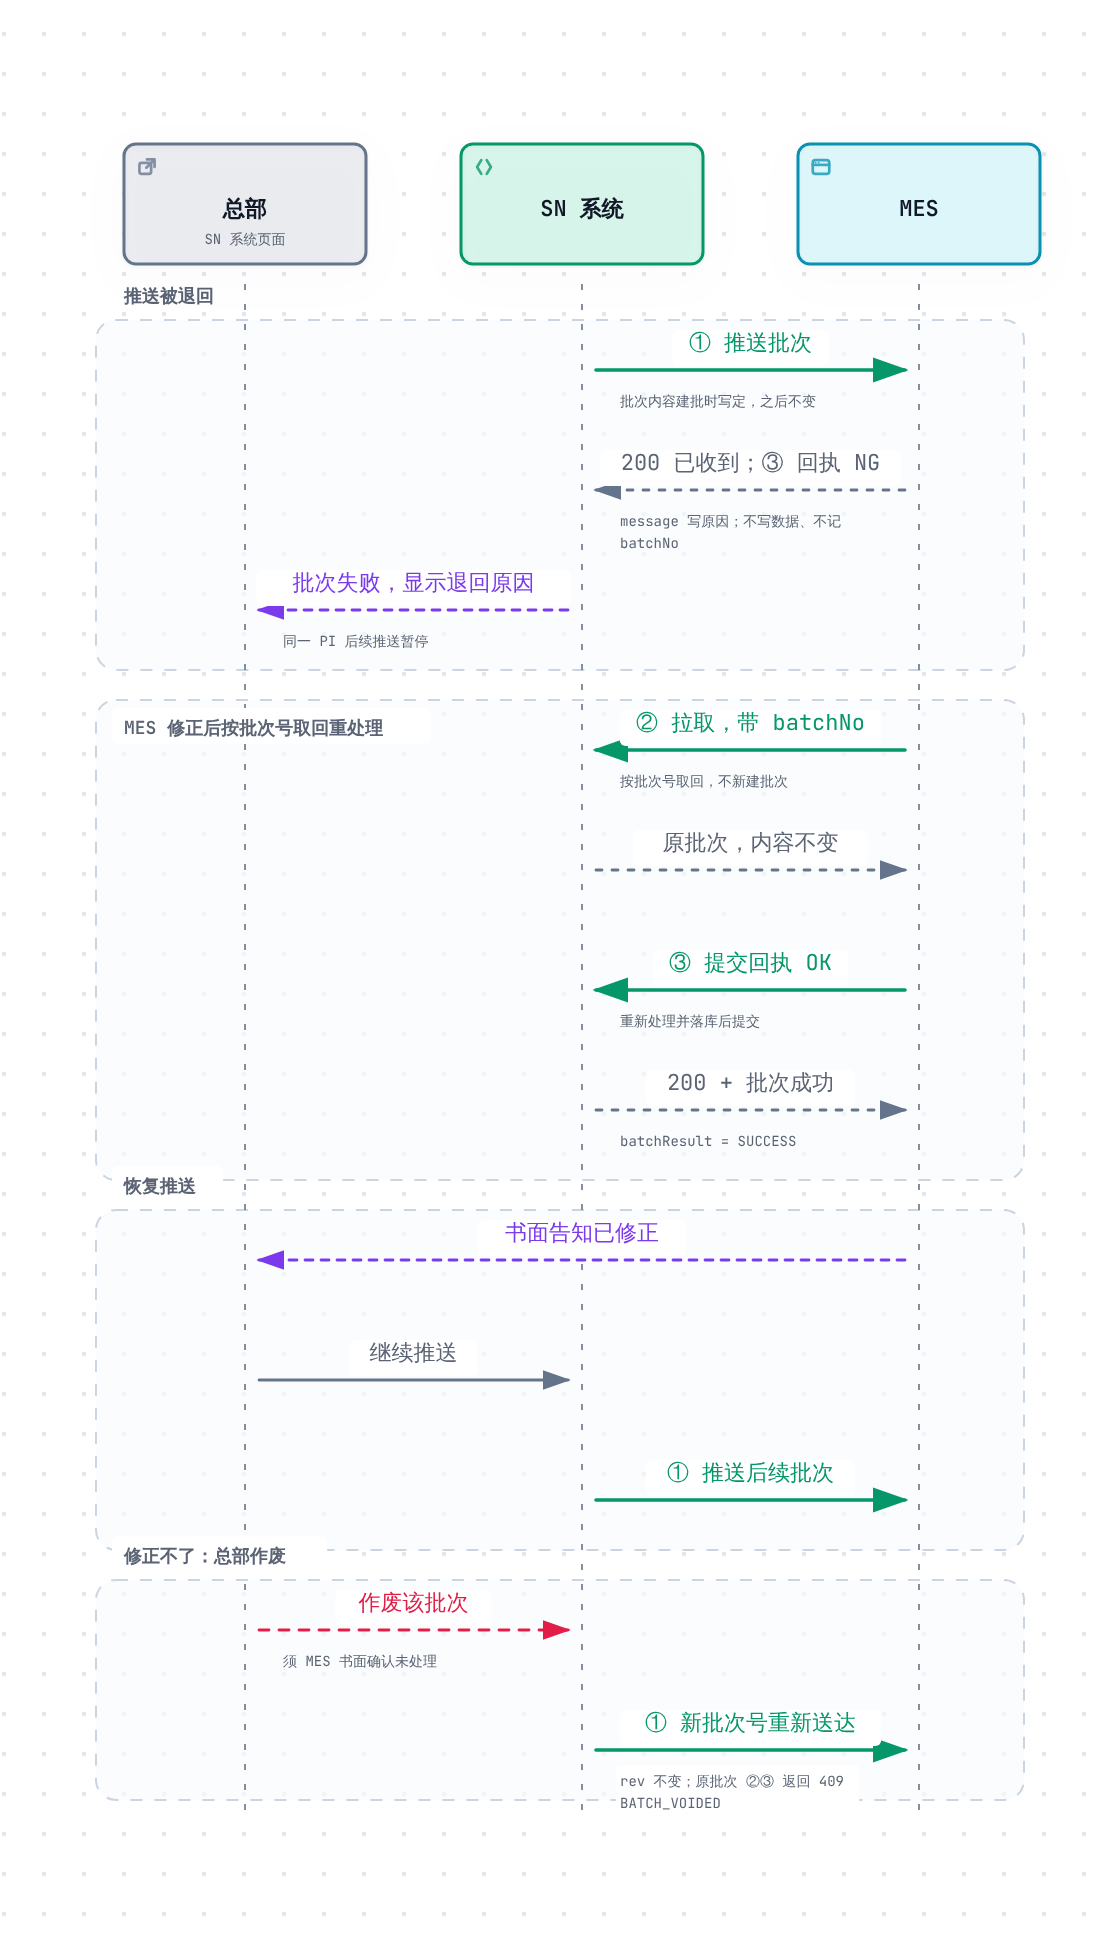
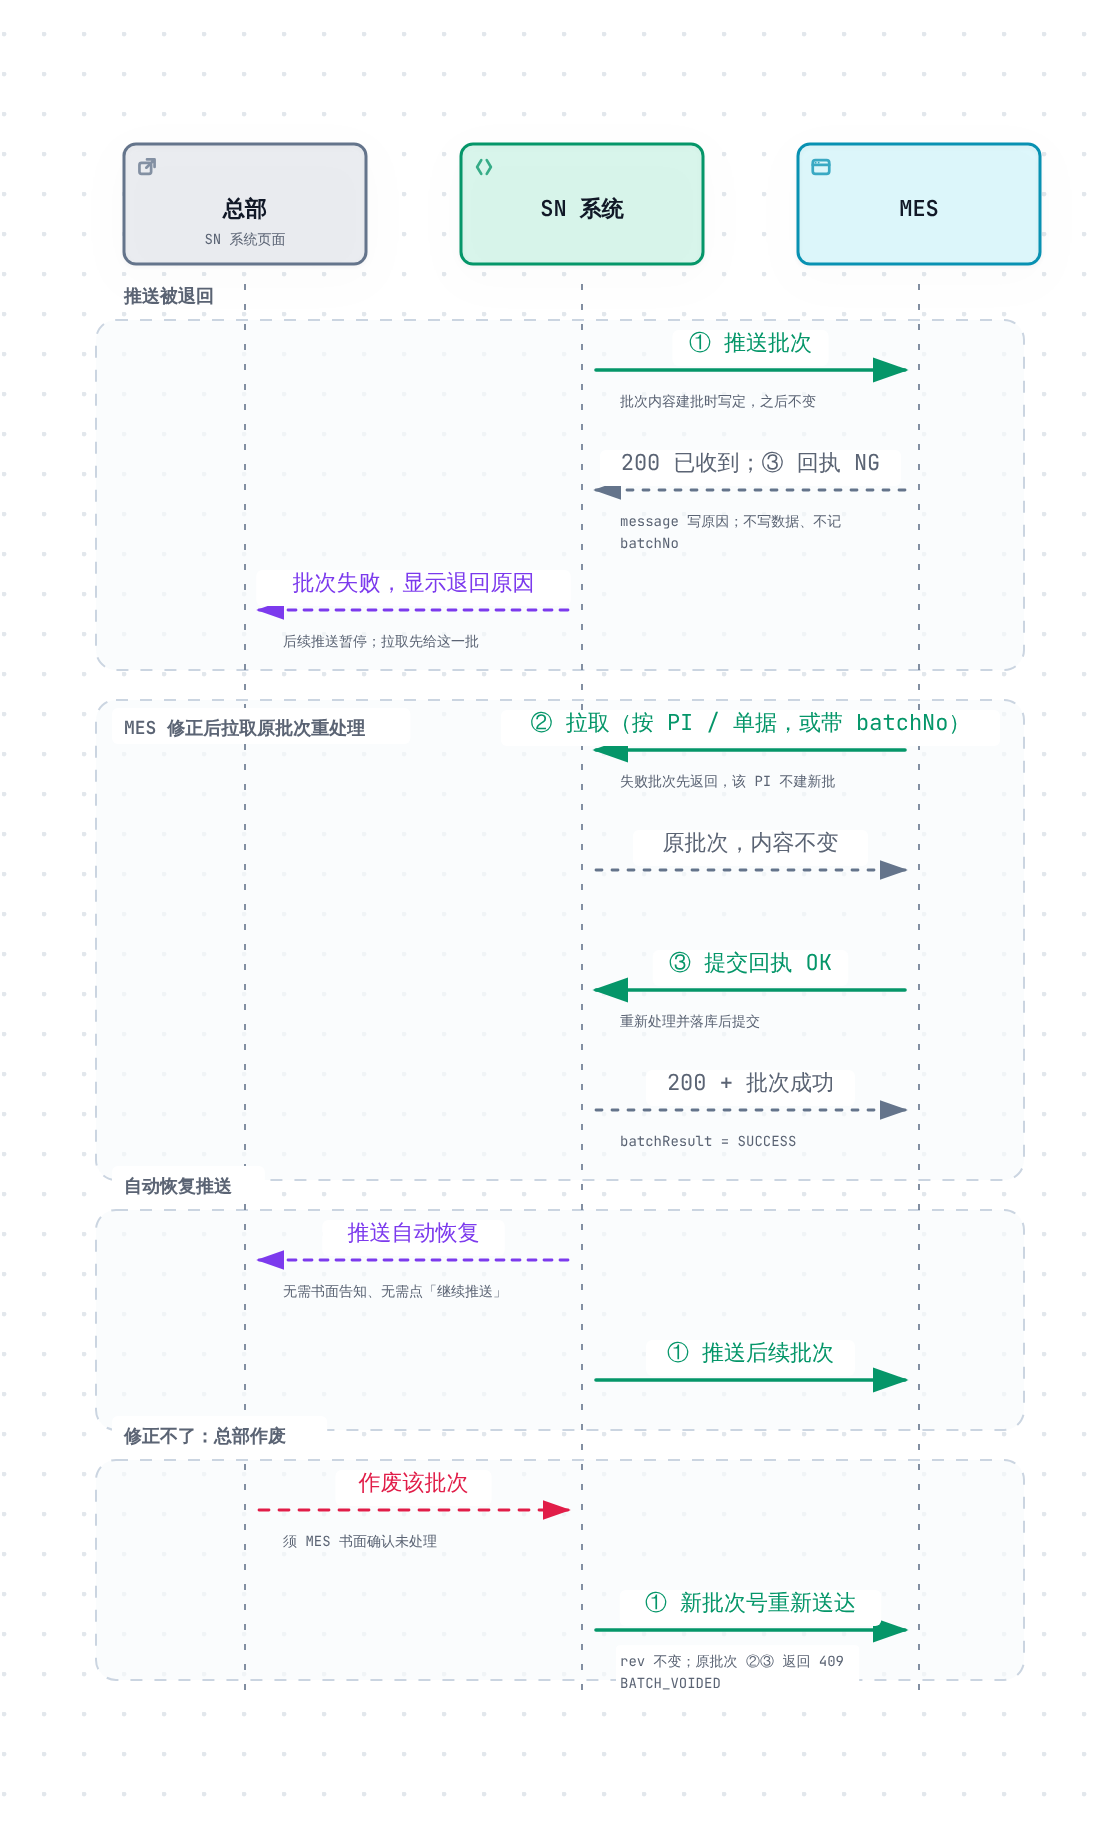
文档按代码更正：失败批次取批先返回、只挡所在 PI，确认后推送自动续推
代码已实现「拉取、推送都从失败处开始」，以下文档仍是旧说法（取批跳过失败批次、
须带 batchNo 取回、确认后须总部点「继续推送」），按代码更正：
- MES 对接说明：异常处理表、整批退回后的重处理步骤，重画图 5-1
- MES 对接接口文档：拉取接口 3.2 说明与 remaining 口径，补修订记录
- MES 业务接口逻辑：整批退回、回执晚到、人工确认、STOPPED 状态说明
- PRD：用户故事、F-11 停止后续推、验收条目、接口清单、风险表、联调场景、MES 要求
- 联调指南：场景 4、5、14、15 的说明与用例
- 系统技术方案：风险 R2

补测试：重试用尽后经 MES 拉取回执自动续推；重试用尽后人工确认自动续推。

Claude-Session: https://claude.ai/code/session_018UJf3Dj81XQRrmKmACZVdb

diff --git a/tests/test_delivery.py b/tests/test_delivery.py
@@ -792,3 +792,45 @@ def test_push_task_resumes_after_failed_batch_confirmed_by_pull(w, sql):
     rows = sql.all("SELECT source, result FROM sn_delivery_batch WHERE pi_no = %s ORDER BY id", pi)
     assert rows == [{"source": "PUSH", "result": "SUCCESS"}, {"source": "PUSH", "result": "SUCCESS"}]
     assert sql.count("SELECT COUNT(*) FROM sn_item WHERE pi_no = %s AND status = 'PUSHED'", pi) == 4
+
+
+def _task_state(sql, org, key):
+    return sql.scalar("SELECT state FROM sn_push_task WHERE factory_code = %s AND task_key = %s", org, key)
+
+
+def test_push_task_resumes_after_exhausted_batch_confirmed_by_pull(w, sql):
+    """自动重试用尽：MES 取批拿到原批次并回执 OK 后，停下的推送任务自动接着推后续的号，不用点「继续推送」。"""
+    org, pi, bill = setup_pi(w, qty=7, batch_size=5)
+    MES.behavior[org] = lambda batch, h: (503, {"code": "X"})
+    w.allocate(pi)
+    w.push()
+    first = sql.one("SELECT * FROM sn_delivery_batch WHERE pi_no = %s", pi)
+    assert first["push_state"] == "EXHAUSTED" and _task_state(sql, org, pi) == "STOPPED"
+    MES.behavior.pop(org)
+    token, _ = w.mes_account(org)
+    r = ok(w.mes_next(token, pi=pi))
+    assert r["batch"]["batchNo"] == first["batch_no"]
+    ok(w.mes_receipt(token, MES.process(org, r["batch"])))
+    assert _task_state(sql, org, pi) == "QUEUED"
+    w.push()
+    rows = sql.all("SELECT source, qty, result FROM sn_delivery_batch WHERE pi_no = %s ORDER BY id", pi)
+    assert rows == [
+        {"source": "PUSH", "qty": 5, "result": "SUCCESS"},
+        {"source": "PUSH", "qty": 2, "result": "SUCCESS"},
+    ]
+
+
+def test_push_task_resumes_after_manual_confirm(w, sql):
+    """重试用尽后总部人工确认这一批：停下的推送任务自动接着推后续的号。"""
+    org, pi, bill = setup_pi(w, qty=7, batch_size=5)
+    MES.behavior[org] = lambda batch, h: (503, {"code": "X"})
+    w.allocate(pi)
+    w.push()
+    b = sql.one("SELECT * FROM sn_delivery_batch WHERE pi_no = %s", pi)
+    assert _task_state(sql, org, pi) == "STOPPED"
+    MES.behavior.pop(org)
+    ok(w.api.post(f"/api/delivery/batches/{b['batch_no']}/confirm", m(reason="MES 已入库", basis="邮件确认"), w.admin))
+    assert _task_state(sql, org, pi) == "QUEUED"
+    w.push()
+    rows = sql.all("SELECT qty, result FROM sn_delivery_batch WHERE pi_no = %s ORDER BY id", pi)
+    assert rows == [{"qty": 5, "result": "SUCCESS"}, {"qty": 2, "result": "SUCCESS"}]

diff --git a/docs/MES 联调指南.md b/docs/MES 联调指南.md
@@ -187,8 +187,8 @@ uv run python -m devtools.mes_conformance --url https://mes-test.example.com/sn/
 | 1 | 推送超时后自动重试并续推；期间 MES 取到同一批并回执，系统停止重试；应答已收到但没有回执时按原批次重推，回执迟到照常确认 | `test_delivery::test_retry_then_exhaust_then_resume_with_same_batch`、`test_delivery::test_no_receipt_resends_same_batch_then_exhausts`、`test_delivery::test_late_receipt_after_resend_confirms_and_continues`、`test_mes_tools::test_push_response_lost_but_receipt_confirms`、`test_mes_tools::test_push_response_lost_then_pull_gets_same_receipt` | C06 | MES 落库到回执的时间；重推到达时是否重新回执 |
 | 2 | 推送建批、MES 拉取建批并发，同一枚号不进两个批次 | `test_mes_tools::test_push_and_pull_concurrently_never_overlap` | — | MES 按真实频率取批时同时推送 |
 | 3 | 推送与拉取同时送达同一批次，MES 只处理一次，两边回执相同 | `test_mes_tools::test_push_response_lost_then_pull_gets_same_receipt` | C06、C20 | MES 的批次号锁在多台服务器上是否生效 |
-| 4 | MES 取批后宕机未回执，再取仍是同一批；按 PI、单据、PI + 单据取；无批次时返回空并给出剩余、暂停枚数 | `test_delivery::test_pull_returns_same_unconfirmed_batch_until_receipt`、`test_orders::test_reversal_suspends_undelivered_and_resumes`、`test_delivery::test_pull_scope_checks` | — | PI + 单据组合取批（用 `mes_mock pull --pi --bill` 或 MES 客户端）；MES 重启后续取 |
-| 5 | MES 整批拒绝（含组织编码不符、本组织没有该 PI）：不登记批次号、取批跳过、修正后续推或取回补交 | `test_delivery::test_reject_marks_failed_and_resume_after_fix`、`test_delivery::test_rejected_batch_voided_rebatches_and_refuses_voided` | C02、C15～C18 | MES 修好后按批次号取回补交回执 |
+| 4 | MES 取批后宕机未回执，再取仍是同一批；推送重试用尽的批次取批拿到并回执后推送自动接着推；按 PI、单据、PI + 单据取；无批次时返回空并给出剩余、暂停枚数 | `test_delivery::test_pull_returns_same_unconfirmed_batch_until_receipt`、`test_delivery::test_push_task_resumes_after_exhausted_batch_confirmed_by_pull`、`test_orders::test_reversal_suspends_undelivered_and_resumes`、`test_delivery::test_pull_scope_checks` | — | PI + 单据组合取批（用 `mes_mock pull --pi --bill` 或 MES 客户端）；MES 重启后续取 |
+| 5 | MES 整批拒绝（含组织编码不符、本组织没有该 PI）：不登记批次号；取批先返回失败批次、只挡所在 PI，别的 PI 照常拉取；修正后取批或取回补交回执，推送自动接着推；也可续推、作废 | `test_delivery::test_reject_marks_failed_and_resume_after_fix`、`test_delivery::test_rejected_batch_voided_rebatches_and_refuses_voided`、`test_delivery::test_failed_batch_blocks_only_its_pi`、`test_delivery::test_push_task_resumes_after_failed_batch_confirmed_by_pull` | C02、C15～C18 | MES 修好后取批拿到原批次补交回执，之后推送自动接着推 |
 | 6 | 转单、转组织后改挂重推、转出推送；转回来源组织后清除「已转走」 | `test_transfers::test_org_transfer_pushes_reassign_to_target_and_transfer_out_to_source`、`test_transfers::test_same_org_bill_transfer_reassigns_pushed` | C08、C11～C13 | MES 本侧挂靠、「已转走」标记、`toOrgCode`；本地没有时转出建档 |
 | 7 | 转出后来源 MES 按批次号、按 PI 只读查不到已转出的号；转出批次推送中断时可取回并回执 | `test_transfers::test_org_transfer_pushes_reassign_to_target_and_transfer_out_to_source`、`test_transfers::test_transfer_out_pending_blocks_retransfer` | — | MES 用 ④⑤ 核对 |
 | 8 | 转出批次未确认或失败时，这些号不能再转单、转组织 | `test_transfers::test_transfer_out_pending_blocks_retransfer` | — | 只涉及本系统，页面确认提示 |
@@ -197,8 +197,8 @@ uv run python -m devtools.mes_conformance --url https://mes-test.example.com/sn/
 | 11 | 单据暂停交付期间推送、拉取都取不到未交付的号，已入批的可续推、可拉取；解除后自动继续推送 | `test_orders::test_reversal_suspends_undelivered_and_resumes`、`test_orders::test_pi_change_freezes_until_confirmed` | — | MES 取批时 `paused` 的显示与处理 |
 | 12 | 按 rev 逐枚处理、整批回执：更大或相同覆盖、更小跳过，整批仍 `OK`；应答不是已收到或批次号不符时批次失败 | `test_delivery::test_same_rev_from_other_batch_overwrites_without_alert`、`test_delivery::test_older_rev_skipped_by_mes_without_alert`、`test_delivery::test_response_batch_no_mismatch_fails_batch`、`test_delivery::test_response_not_received_is_invalid` | C05、C08～C10 | MES 本侧 rev 与挂靠 |
 | 13 | 连接测试批次：认证、组织编码校验通过即成功，MES 不写数据 | `test_accounts::test_mes_enable_requires_test_and_disable_blocked` | C01～C04 | MES 库里没有 PING 记录 |
-| 14 | 应答或回执与批次不符：推送应答不符记失败，取批跳过；③ 回执批次号写错被拒、原批次仍等回执；回执不合法只拒收、批次不变；修正后提交正确回执成功 | `test_delivery::test_response_batch_no_mismatch_fails_batch`、`test_delivery::test_receipt_with_wrong_batch_no_refused_batch_keeps_waiting`、`test_delivery::test_pull_receipt_invalid_rejected_batch_unchanged_then_fixed`、`test_delivery::test_receipt_batch_no_in_body_and_no_gzip` | C05（校验规则相同） | MES 收到 400 后按 `details` 修正重交 |
-| 15 | 人工处理：拒收批次作废后重新组批；报文过大作废后按调小的枚数组批；转出批次作废后重建送达；作废批次取回、回执被拒；人工确认后停止重试、等回执中人工确认即推下一批 | `test_delivery::test_manual_confirm_while_waiting_receipt_continues`、`test_delivery::test_rejected_batch_voided_rebatches_and_refuses_voided`、`test_delivery::test_void_returns_items_to_pool_and_rebatches`、`test_transfers::test_void_transfer_out_rebuilds_and_delivers`、`test_delivery::test_manual_confirm_stops_retry` | — | MES 丢弃作废批次、不用本地缓存处理；书面确认流程 |
+| 14 | 应答或回执与批次不符：推送应答不符记失败，取批先返回该批次；③ 回执批次号写错被拒、原批次仍等回执；回执不合法只拒收、批次不变；修正后提交正确回执成功 | `test_delivery::test_response_batch_no_mismatch_fails_batch`、`test_delivery::test_receipt_with_wrong_batch_no_refused_batch_keeps_waiting`、`test_delivery::test_pull_receipt_invalid_rejected_batch_unchanged_then_fixed`、`test_delivery::test_receipt_batch_no_in_body_and_no_gzip` | C05（校验规则相同） | MES 收到 400 后按 `details` 修正重交 |
+| 15 | 人工处理：拒收批次作废后重新组批；报文过大作废后按调小的枚数组批；转出批次作废后重建送达；作废批次取回、回执被拒；人工确认后停止重试、等回执中人工确认即推下一批、重试用尽后人工确认自动接着推 | `test_delivery::test_manual_confirm_while_waiting_receipt_continues`、`test_delivery::test_push_task_resumes_after_manual_confirm`、`test_delivery::test_rejected_batch_voided_rebatches_and_refuses_voided`、`test_delivery::test_void_returns_items_to_pool_and_rebatches`、`test_transfers::test_void_transfer_out_rebuilds_and_delivers`、`test_delivery::test_manual_confirm_stops_retry` | — | MES 丢弃作废批次、不用本地缓存处理；书面确认流程 |
 | 16 | 交付告警（每日自检问题）核查后填写结论关闭；结论必填，已关闭的不能再处理 | `test_delivery::test_check_alert_closed_with_note` | — | 只涉及本系统 |
 | 17 | 同组织改挂待推送的号再转走，来源 MES 收到转出；关闭对接后转走曾推送的号，转出照常送达 | `test_transfers::test_same_org_reassign_then_other_org_still_sends_transfer_out`、`test_transfers::test_transfer_out_after_source_disabled_mes` | — | 关闭对接后 MES 仍保留接收接口 |
 | 18 | 跨组织转移后，转入方交付与来源转出不论谁先确认，MES 持有组织都正确；再次转移时转出推给正确的组织 | `test_transfers::test_holder_correct_when_target_confirms_first` | — | 两个组织的 MES 同时在线时的顺序 |

diff --git a/docs/MES业务接口逻辑.md b/docs/MES业务接口逻辑.md
@@ -115,7 +115,7 @@ SN 系统 ──推送接口：下一批────────▶ MES      …
 | --- | --- |
 | MES | 推送接口照常回 `OK`；处理时发现整批不能接收，调回执接口报 `NG`，`message` 写原因，不写入任何数据，也不登记批次号（修正后同一批次号重送能正常处理） |
 | SN 系统 | 批次记失败（失败码 `REJECTED`，可作废），推送任务停止，总部页面显示原因 |
-| 总部 | 问题修好后点「继续推送」，用原批次号、原内容重推；或作废这一批，号回到号池重新建批 |
+| 总部 / MES | 问题修好后，MES 照常拉取（或带 `batchNo` 取回）拿到这一批重处理并交回执 `OK`，推送任务自动接着推（4.5）；或总部点「继续推送」，用原批次号、原内容重推；或作废这一批，号回到号池重新建批 |
 
 ### 2.4 真实推送：MES 已收到但一直没交回执
 
@@ -124,7 +124,7 @@ SN 系统 ──推送接口：下一批────────▶ MES      …
 | 等回执、重推 | 收到 `OK` 后等 1 分钟，没有回执就用原批次号、原内容重推，再等 5 分钟；再重推，再等 10 分钟；再重推，再等 10 分钟。一共重推 3 次 |
 | MES 收到重复的同一批 | 照常回 `OK`，并**立即重交第一次的处理结果**（第一次的回执可能没交上来） |
 | 仍然没有回执 | 批次推送状态记为「重试用尽」（失败码 `RECEIPT_TIMEOUT`），推送任务停止，后面的批次不推 |
-| MES 之后补交回执 | 这一批确认成功；但推送任务已停止，后面的号要总部点「继续推送」，或 MES 用拉取接口去取（见第 9 节） |
+| MES 之后补交回执 | 这一批确认成功，已停止的推送任务自动接着推后面的号，不用点「继续推送」 |
 
 ### 2.5 真实推送：没送达，自动重试
 
@@ -367,7 +367,7 @@ MES      与本地核对，只记录差异
 | 操作 | 什么时候用 | 结果 |
 | --- | --- | --- |
 | 继续推送 | 推送任务停止后（整批退回已修正、重试用尽、回执晚到等） | 清零重试与等回执次数，先用原批次号、原内容重推未确认或失败的批次（含 MES 拉取建立的），再认领新号建批 |
-| 人工确认 | MES 方确认这一批已全部入库，但回执交不上来（未确认或失败的批次） | 批次成功，号改为「已推送」；推送任务正在等这一批的接着推下一批，已停止的须再点「继续推送」；原因、依据必填 |
+| 人工确认 | MES 方确认这一批已全部入库，但回执交不上来（未确认或失败的批次） | 批次成功，号改为「已推送」；推送任务正在等这一批的、因失败或重试用尽已停止的，都自动接着推下一批；原因、依据必填 |
 | 作废 | MES 确实没有处理的批次：失败中可作废的（整批退回、认证 / 地址错误、报文过大、无法解析），或 MES 书面确认未处理的未确认批次 | 首次下发（`NEW`）的号回到号池重新建批；转移、改挂类的号按原号当场重建同类型新批次，转出批次按原明细重建，都自动推送；作废后 MES 再交回执或带 `batchNo` 拉取，返回 409 `BATCH_VOIDED`；原因、依据必填 |
 | 转出批次 | 跨组织转移时自动建立，发给原组织 MES | 由单独的推送任务发送；回执 `OK` 后清除这些号在原组织 MES 的持有记录 |
 
@@ -401,7 +401,7 @@ MES      与本地核对，只记录差异
 | `RUNNING` | 运行中（带租约，实例宕机后由其他实例接手） |
 | `WAITING` | 等待：等回执或等重试到期；回执到了立即转为排队 |
 | `DONE` | 已完成：没有可推的号 |
-| `STOPPED` | 已停止：失败或用尽，原因显示在页面，等「继续推送」 |
+| `STOPPED` | 已停止：失败或用尽，原因显示在页面；挡住的批次经 MES 回执 `OK` 或人工确认成功后自动转为排队，也可点「继续推送」 |
 
 ---
 

diff --git a/docs/系统技术方案.md b/docs/系统技术方案.md
@@ -706,7 +706,7 @@ SN 分配页的接口在 `/api/allocation`（与生成的 `/api/generate` 分开
 | 编号 | 风险 | 影响 | 应对措施 |
 | --- | --- | --- | --- |
 | R1 | 本系统出错把同一枚号交出两次 | 现场打出两张相同标签 | 单一未入批号池 + `SKIP LOCKED`；推送与拉取送达同一批次、按批次号去重并以回执确认；MES 按 `rev` 逐枚覆盖或跳过，迟到的旧版本不会覆盖新数据；每日交付自检；联调重点验证 |
-| R2 | MES 长期不回执或某批一直处理不了 | 号停在冻结 | 超时告警；续推；整批拒绝、回执不符的批次取批跳过；人工确认或作废 |
+| R2 | MES 长期不回执或某批一直处理不了 | 号停在冻结，该 PI 后续的号也取不到 | 超时告警、首页推送失败；失败批次只挡所在 PI；续推；MES 修正后取批补交回执，推送自动续推；人工确认或作废 |
 | R3 | 作废未确认批次时 MES 其实已处理，号之后又转到别的组织 | 原 MES 收不到转出（MES 持有组织未记录），两处可用且无从发现 | 作废未确认批次须 MES 书面确认（依据必填）；重新组批送达同一 MES 时 `rev` 不变、覆盖结果相同 |
 | R4 | 跨组织转移后来源现场未作废旧标签 | 两张相同标签 | 转出推送 + 转出号清单；业务方给出作废流程（PRD Q65） |
 | R5 | 数据库单实例故障或从备份恢复 | 不可用；恢复后可能重复生成已交付的号 | 主从 + 备份；恢复后按 4.5 核对后再放开 |
